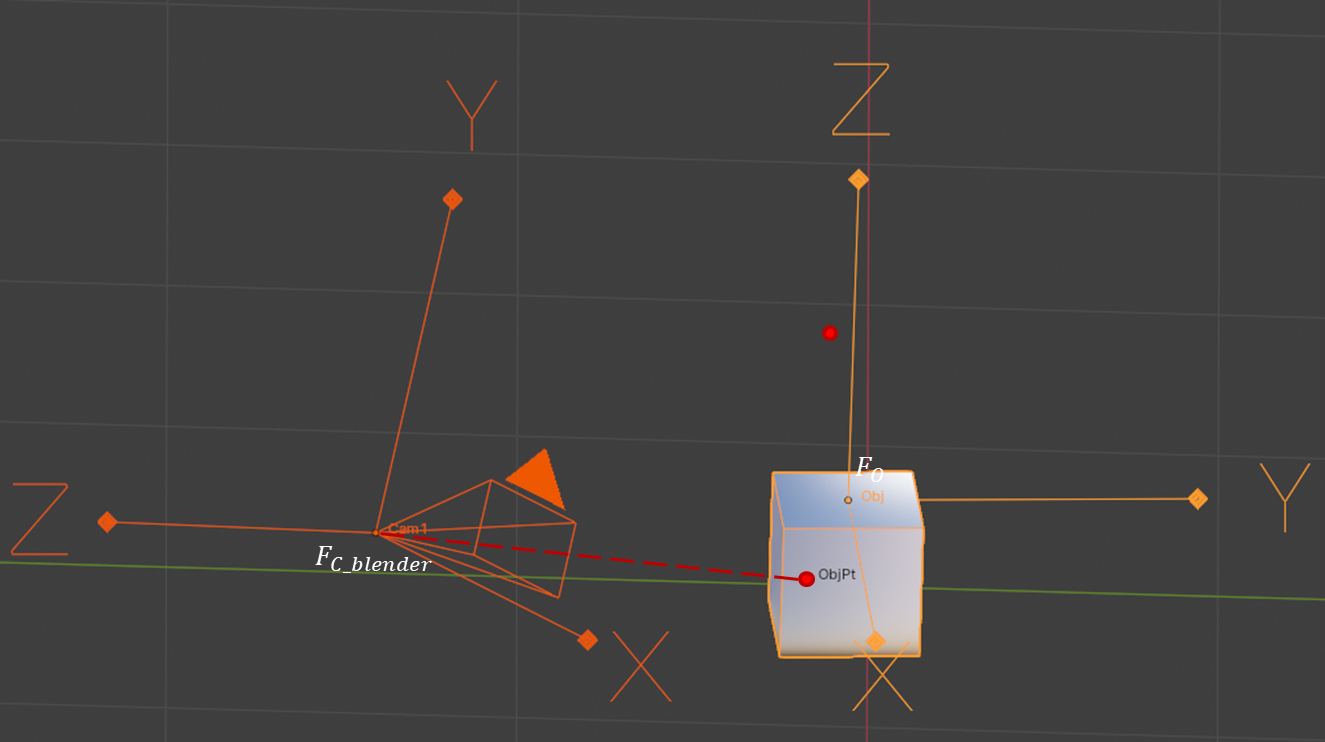
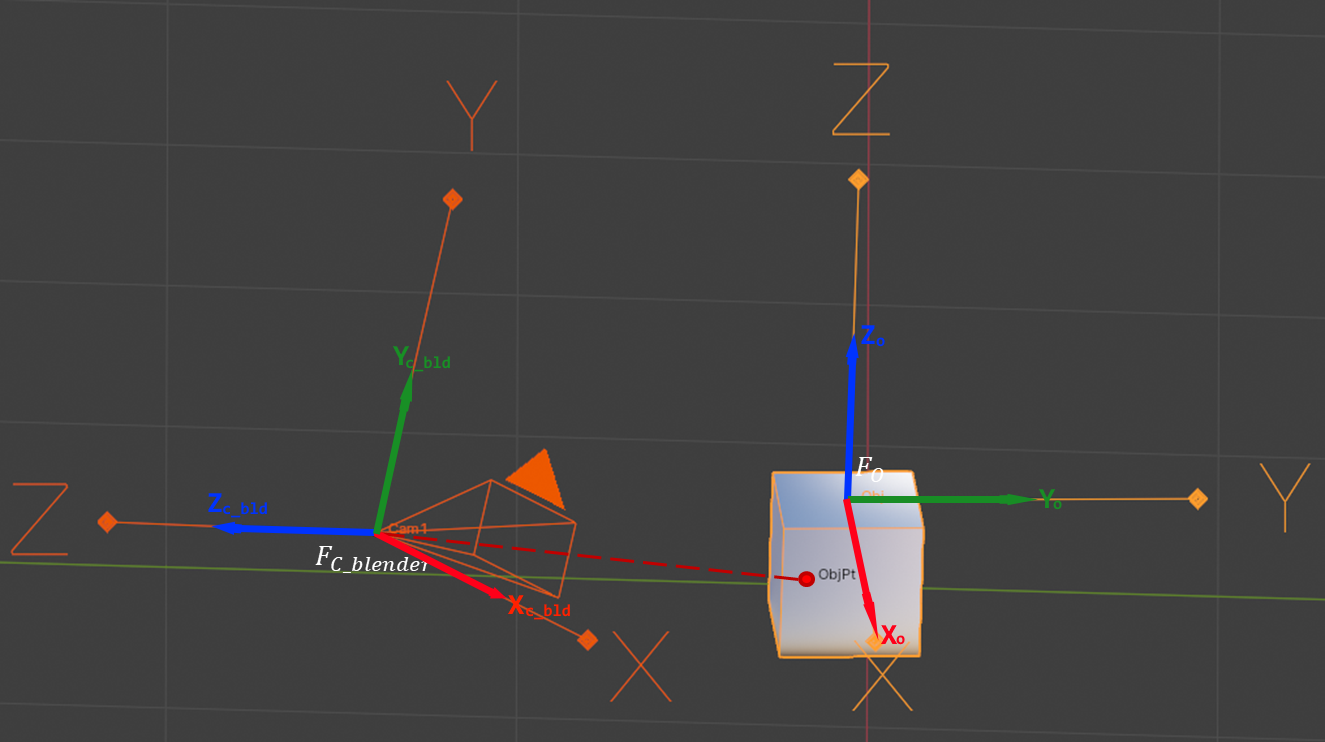
[updata pinhole blender note]

diff --git a/pinholemodel_inblender.md b/pinholemodel_inblender.md
@@ -12,39 +12,269 @@ defined by the pinhole camera model in OpenCV.
 **Figure 2.** Equivalent camera and coordinate frame setup implemented
 in Blender to reproduce the OpenCV pinhole camera model.
 
-`>>>`   
+
 
 
 The rigid transformation from object frame to camera frame is defined as:
 
-- $\mathcal{F}_c$: OpenCV camera coordinate frame
-- $\mathcal{F}_{c-{blender}}$: Blender camera coordinate frame
+- $\mathcal{F}_c$: OpenCV camera coordinate frame.
+  The camera coordinate system follows the OpenCV convention, where
+  the $Y$-axis points downward
+  and the $Z$-axis points forward.
+- $\mathcal{F}_{c\text{-}bld}$: Blender camera coordinate frame.
+  In contrast to OpenCV, the Blender camera coordinate system uses
+  a different axis convention: the $Y$-axis points upward and the
+  $Z$-axis points backward.
 - $\mathcal{F}_o$: object coordinate frame
 - $(X_c, Y_c, Z_c)$: axes of the camera frame
+- $(X_{c\text{-}bld}, Y_{c\text{-}bld}, Z_{c\text{-}bld})$: axes of the blender camera frame
 - $(X_o, Y_o, Z_o)$: axes of the object frame
 - ${}^{c}\mathbf{T}_{o}$: rigid transformation from object frame to camera frame
 - $\mathbf{X}_i^{3D} \in \mathbb{R}^3$: 3D object point expressed in $\mathcal{F}_o$
-- $\mathbf{x}_i^{2D} \in \mathbb{R}^2$: projected 2D image point
+- $\mathbf{x}_i^{2D} \ \in \mathbb{R}^2$: projected 2D image point
 - $\mathbf{K}$: camera intrinsic matrix
 - $(u, v)$: image plane coordinates
 
-$$
-{}\mathcal{F}_{c-{blender}}
-=  
-\begin{bmatrix}
-1 & 0 & 0 & 0 \\
-0 & -1 & 0 & 0 \\
-0 & 0 & -1 & 0 \\
-0 & 0 & 0 & 1 \\
-\end{bmatrix} \ \mathcal{F}_{c}
-$$
 
+## Workflow Illustrated in Figure 1 [OpenCV]
 
+Step.1: Translation Matrix.
 $$
 {}^{c}\mathbf{T}_{o}
 =
 \begin{bmatrix}
 ^{c}\mathbf{R}_{o} & ^{c}\mathbf{t}_{o} \\
-\mathbf{0}^\top & 1
+\mathbf{0}^\top & 1 
 \end{bmatrix}
 $$
+Step.2: 3D Point from object coordinate system to camera coordinate system.
+$$
+\begin{bmatrix}
+{}\mathbf{X}_{c} \\
+{}\mathbf{Y}_{c} \\
+{}\mathbf{Z}_{c} \\
+1
+\end{bmatrix}
+= 
+{}^{c}\mathbf{T}_{o} 
+\begin{bmatrix}
+\mathbf{X}_{o} \\
+\mathbf{Y}_{o} \\
+\mathbf{Z}_{o} \\
+1
+\end{bmatrix}
+$$
+Step.3: 3D Point from camera coordinate system to 2D image coordinate system.
+$$
+s\begin{bmatrix}
+{}\mathbf{u}\\
+{}\mathbf{v}\\
+{}1 
+\end{bmatrix}
+= 
+{}\mathbf{K} 
+\begin{bmatrix}
+\mathbf{X}_{c} \\
+\mathbf{Y}_{c} \\
+\mathbf{Z}_{c} 
+\end{bmatrix}
+$$
+
+## Workflow Illustrated in Figure 2 [Blender]
+
+Step.1: Translation Matrix.
+$$
+{}^{c\text{-}bld}\mathbf{T}_{o}
+=
+\begin{bmatrix}
+^{c\text{-}bld}\mathbf{R}_{o} & ^{c\text{-}bld}\mathbf{t}_{o} \\
+\mathbf{0}^\top & 1 
+\end{bmatrix}
+$$
+Step.2: 3D Point from object coordinate system to blender camera coordinate system.
+$$
+\begin{bmatrix}
+{}\mathbf{X}_{c\text{-}bld} \\
+{}\mathbf{Y}_{c\text{-}bld} \\
+{}\mathbf{Z}_{c\text{-}bld} \\
+1
+\end{bmatrix}
+= 
+{}^{c\text{-}bld}\mathbf{T}_{o} 
+\begin{bmatrix}
+\mathbf{X}_{o} \\
+\mathbf{Y}_{o} \\
+\mathbf{Z}_{o} \\
+1
+\end{bmatrix}
+$$
+Step.3: 3D Point from blender camera coordinate system to camera coordinate system.
+$$
+\begin{bmatrix}
+{}\mathbf{X}_{c} \\
+{}\mathbf{Y}_{c} \\
+{}\mathbf{Z}_{c} \\
+1
+\end{bmatrix}
+= 
+\begin{bmatrix}
+1 & 0 & 0 & 0 \\
+0 & -1 & 0 & 0 \\
+0 & 0 & -1 & 0 \\
+0 & 0 & 0 & 1
+\end{bmatrix}
+\begin{bmatrix}
+{}\mathbf{X}_{c\text{-}bld} \\
+{}\mathbf{Y}_{c\text{-}bld} \\
+{}\mathbf{Z}_{c\text{-}bld} \\
+1
+\end{bmatrix}
+$$
+Step.4: 3D Point from camera coordinate system to image 2D coordinate system.
+$$
+s\begin{bmatrix}
+{}\mathbf{u}\\
+{}\mathbf{v}\\
+{}1 
+\end{bmatrix}
+= 
+{}\mathbf{K} 
+\begin{bmatrix}
+\mathbf{X}_{c} \\
+\mathbf{Y}_{c} \\
+\mathbf{Z}_{c} 
+\end{bmatrix}
+$$
+
+## Practical Coordinate Transformation Using the Blender API
+Step.1 Get $\ {}^{c\text{-}bld}\mathbf{T}_{o}$  Script:
+
+````
+>>> import bpy
+>>> Cam_bld = bpy.data.objects['Cam1'] #Blender camera coordinate frame
+>>> Obj = bpy.data.objects['Obj'] #Object coordinate frame
+>>> To2c_bld = Cam_bld.matrix_world.inverted() @ Obj.matrix_world
+````
+
+Step.2 Verify
+$(\mathbf{X}_{c\text{-}bld}, \mathbf{Y}_{c\text{-}bld}, \mathbf{Z}_{c\text{-}bld}) = {}^{c\text{-}bld}\mathbf{T}_{o} {\ }(\mathbf{X}_{o}, \mathbf{Y}_{o}, \mathbf{Z}_{o})$ Script:
+````
+>>> #Obj coordinate
+>>> bpy.data.objects['ObjPt1inObj'].location
+Vector((0.1999986469745636, -0.13137036561965942, -0.1568709909915924))
+
+>>> #Cam_bld coordinate
+>>> To2c_bld @ bpy.data.objects['ObjPt1inObj'].location
+Vector((0.08622720837593079, -0.059821613132953644, -1.551675796508789))
+
+>>> #Obj coordinate
+>>> bpy.data.objects['ObjPt2inObj'].location
+Vector((-0.10199800133705139, -0.1999974399805069, -0.20087629556655884))
+
+>>> #Cam_bld coordinate
+>>> To2c_bld @ bpy.data.objects['ObjPt2inObj'].location
+Vector((-0.2063189297914505, -0.0650460496544838, -1.662299394607544))
+
+>>> #Obj coordinate
+>>> bpy.data.objects['ObjPt3inObj'].location
+Vector((0.0012328429147601128, -0.1085837334394455, 2.4646520614624023e-05))
+
+>>> #Cam_bld coordinate
+>>> To2c_bld @ bpy.data.objects['ObjPt3inObj'].location
+Vector((-0.06339523941278458, 0.12981019914150238, -1.6310244798660278))
+
+>>> #Obj coordinate
+>>> bpy.data.objects['ObjPt4inObj'].location
+Vector((-0.13400417566299438, -0.007466670125722885, 5.21540641784668e-06))
+
+>>> #Cam_bld coordinate
+>>> To2c_bld @ bpy.data.objects['ObjPt4inObj'].location
+Vector((-0.12257358431816101, 0.1733890026807785, -1.7830525636672974))
+````
+
+Data compare:
+|  | ${\ }{\ }{\ }{\ }{\ }{\ }{\ }{\ }{\ }{\ }{\ }(\mathbf{X}_{o}, \mathbf{Y}_{o}, \mathbf{Z}_{o}){\ }{\ }{\ }$ | ${\ }{\ }{\ }{\ }(\mathbf{X}_{c\text{-}bld}, \mathbf{Y}_{c\text{-}bld}, \mathbf{Z}_{c\text{-}bld})$ | ${\ }{\ }{\ }{\ }{}^{c\text{-}bld}\mathbf{T}_{o} {\ }(\mathbf{X}_{o}, \mathbf{Y}_{o}, \mathbf{Z}_{o})$ |
+|---|---|---|---|
+| $\mathcal{ObjPt_1}$ | $\mathcal{(0.200, -0.131, -0.157)}$ | $\mathcal{(0.086, -0.060, -1.552)}$ | $\mathcal{(0.086, -0.060, -1.552)}$  |
+| $\mathcal{ObjPt_2}$ | $\mathcal{(-0.102, -0.200, -0.201)}$ | $\mathcal{(-0.206, -0.065, -1.662)}$  | $\mathcal{(-0.206, -0.065, -1.662)}$ |
+| $\mathcal{ObjPt_3}$ | $\mathcal{(0.001, -0.109, 0.000)}$ | $\mathcal{(-0.063, 0.130, -1.631)}$  | $\mathcal{(-0.063, 0.130, -1.631)}$ |
+| $\mathcal{ObjPt_4}$ | $\mathcal{(-0.134, -0.007, 0.000)}$ | $\mathcal{(-0.123, 0.173, -1.783)}$  | $\mathcal{(-0.123, 0.173, -1.783)}$ |
+
+![alt text](docs/resource/ObjPointinObjframe.png)
+
+![alt text](docs/resource/ObjPointinCamframe.png)
+
+Step.3 Convert 
+$(\mathbf{X}_{c\text{-}bld}, \mathbf{Y}_{c\text{-}bld}, \mathbf{Z}_{c\text{-}bld})$ to $(\mathbf{X}_{c}, \mathbf{Y}_{c}, \mathbf{Z}_{c})$ Script:
+
+````
+>>> bld2cv = Matrix([[1,0,0,0],
+... [0,-1,0,0],
+... [0,0,-1,0],
+... [0,0,0,1]])
+
+#Cam_bld coordinate
+>>> bpy.data.objects['ObjPt1inCam'].location
+Vector((0.08622720837593079, -0.05982159823179245, -1.551675796508789))
+
+#Cam coordinate
+>>> Pt1inCam = bld2cv @ bpy.data.objects['ObjPt1inCam'].location
+>>> Pt1inCam
+Vector((0.08622720837593079, 0.05982159823179245, 1.551675796508789))
+
+#Cam_bld coordinate
+>>> bpy.data.objects['ObjPt2inCam'].location
+Vector((-0.2063189446926117, -0.065046027302742, -1.662299394607544))
+
+#Cam coordinate
+>>> Pt2inCam = bld2cv @ bpy.data.objects['ObjPt2inCam'].location
+>>> Pt2inCam
+Vector((-0.2063189446926117, 0.065046027302742, 1.662299394607544))
+
+#Cam_bld coordinate
+>>> bpy.data.objects['ObjPt3inCam'].location
+Vector((-0.06339524686336517, 0.12981021404266357, -1.6310244798660278))
+
+#Cam coordinate
+>>> Pt3inCam = bld2cv @ bpy.data.objects['ObjPt3inCam'].location
+>>> Pt3inCam
+Vector((-0.06339524686336517, -0.12981021404266357, 1.6310244798660278))
+
+#Cam_bld coordinate
+>>> bpy.data.objects['ObjPt4inCam'].location
+Vector((-0.12257358431816101, 0.1733890026807785, -1.7830525636672974))
+
+#Cam coordinate
+>>> Pt4inCam = bld2cv @ bpy.data.objects['ObjPt4inCam'].location
+>>> Pt4inCam
+Vector((-0.12257358431816101, -0.1733890026807785, 1.7830525636672974))
+````
+
+Step.4 Verify
+$s(\mathbf{u}, \mathbf{v}, \mathbf{1}) = {}\mathbf{K} {\ }(\mathbf{X}_{c}, \mathbf{Y}_{c}, \mathbf{Z}_{c})$ Script:
+````
+>>> K = Matrix([[2666.666667, 0, 960,],
+... [0, 2666.666667, 540],
+... [0, 0, 1]])
+
+>>> Pt1inUV = K @ Pt1inCam
+>>> Pt1inUV = Pt1inUV / Pt1inUV[2]
+>>> Pt1inUV
+Vector((1108.1876220703125, 642.8076782226562, 0.9999999403953552))
+
+>>> Pt2inUV = K @ Pt2inCam
+>>> Pt2inUV = Pt2inUV / Pt2inUV[2]
+>>> Pt2inUV
+Vector((629.0223388671875, 644.3470458984375, 0.9999999403953552))
+
+>>> Pt3inUV = K @ Pt3inCam
+>>> Pt3inUV = Pt3inUV / Pt3inUV[2]
+>>> Pt3inUV
+Vector((856.3510131835938, 327.7649230957031, 0.9999999403953552))
+
+>>> Pt4inUV = K @ Pt4inCam
+>>> Pt4inUV = Pt4inUV / Pt4inUV[2]
+>>> Pt4inUV
+Vector((776.6835327148438, 280.6858825683594, 1.0))
+````
+![alt text](docs/resource/ObjPointinUVplane_marker.png)
